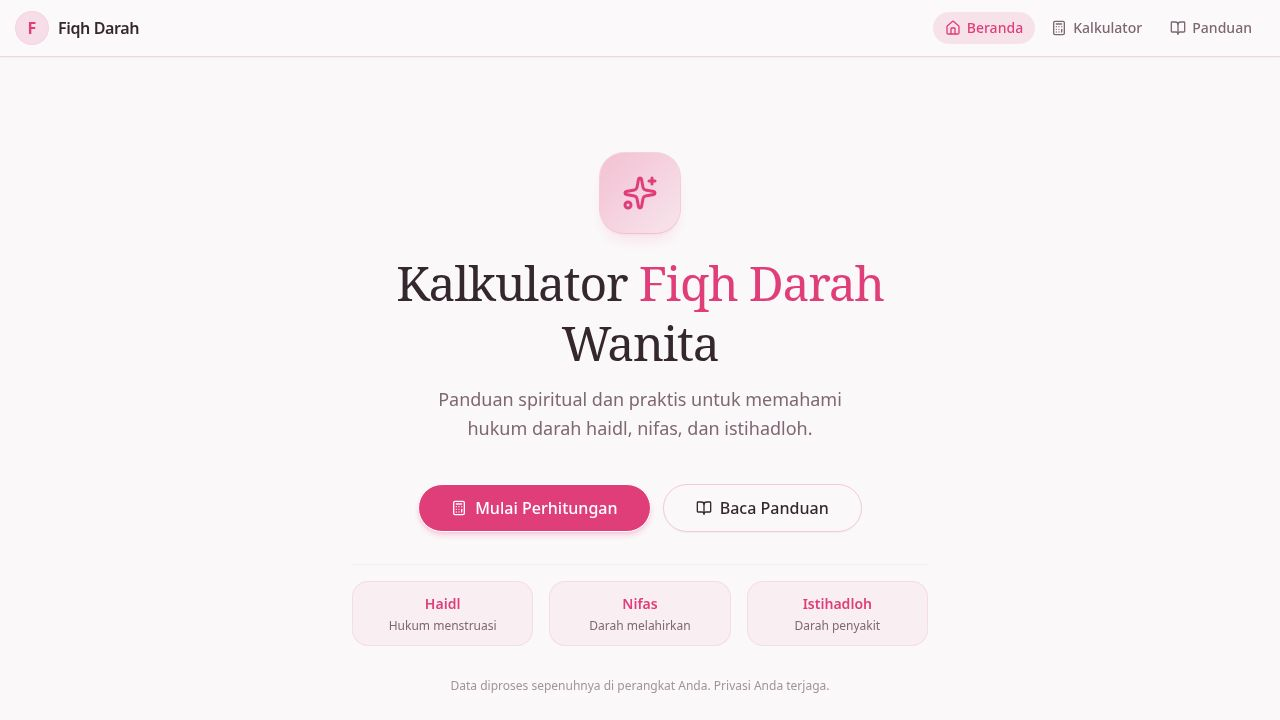
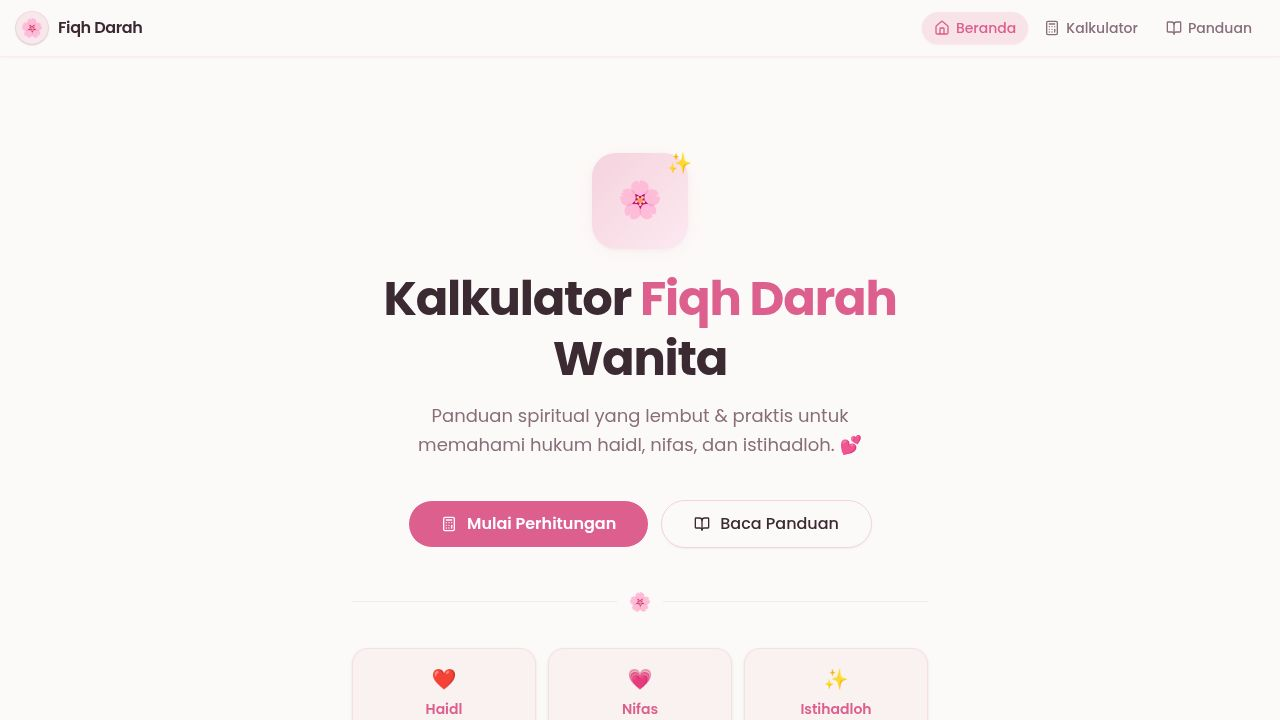
Clarify menstrual cycle calculations and improve explanation text
Adjusted logic in `fiqhEngine.ts` to correctly differentiate between menstruation and istihadloh, refining the `buatLiniMasaHarian` function to accurately reflect menstrual rules, and updating explanatory texts for clarity.

Replit-Commit-Author: Agent
Replit-Commit-Session-Id: 7fc0ec94-3ffa-4aa1-9a6b-895722b9b6fd
Replit-Commit-Checkpoint-Type: full_checkpoint
Replit-Commit-Event-Id: fd1e60aa-e792-46ee-9ad3-f5317915968c
Replit-Commit-Screenshot-Url: https://storage.googleapis.com/screenshot-production-us-central1/3e0d45d8-30c7-44c5-8b15-86df5e108609/7fc0ec94-3ffa-4aa1-9a6b-895722b9b6fd/iyR3cQ2
Replit-Helium-Checkpoint-Created: true

diff --git a/artifacts/fiqh-darah/src/lib/fiqhEngine.ts b/artifacts/fiqh-darah/src/lib/fiqhEngine.ts
@@ -229,7 +229,7 @@ function tentukanKategoriMushtadloh(
     if (isTamyiz) {
       return {
         kategori: "Mubtadi'ah Mumayyizah (Golongan 1)",
-        hukum: `${kuatLabel} darah kuat adalah HAIDL. Darah lemah dan masa berhenti yang berada di sela-sela darah kuat juga dihukumi HAIDL. Darah lemah yang keluar terus-menerus setelah darah kuat terakhir adalah ISTIHADLOH.`,
+        hukum: `${kuatLabel} darah kuat adalah HAIDL. ${lemahLabel} darah lemah adalah ISTIHADLOH.`,
         haidJamSebenarnya: kuatJam,
       };
     } else {
@@ -243,7 +243,7 @@ function tentukanKategoriMushtadloh(
     if (isTamyiz) {
       return {
         kategori: "Mu'tadah Mumayyizah (Golongan 3)",
-        hukum: `${kuatLabel} darah kuat adalah HAIDL. Darah lemah dan masa berhenti yang berada di sela-sela darah kuat juga dihukumi HAIDL. Darah lemah yang keluar terus-menerus setelah darah kuat terakhir adalah ISTIHADLOH.`,
+        hukum: `${kuatLabel} darah kuat adalah HAIDL. ${lemahLabel} darah lemah adalah ISTIHADLOH.`,
         haidJamSebenarnya: kuatJam,
       };
     } else {
@@ -390,17 +390,14 @@ function buatLiniMasaHarian(
   let hariKe = hariMulai;
   let cumJam = 0;
 
-  // ── Pre-compute: untuk tamyiz, tandai bersih dan lemah "di antara dua darah kuat" ──
-  // Hukum Mumayyizah (G1 & G3): yang dihukumi haid/nifas adalah darah kuat BESERTA darah
-  // lemah dan masa berhenti yang berada di sela-sela darah kuat. Darah lemah yang keluar
-  // terus-menerus setelah darah kuat terakhir = istihadloh.
+  // ── Pre-compute: untuk tamyiz, tandai bersih "di antara dua darah kuat" (An-Naqo'/Jam'u) ──
+  // Hukum Mumayyizah (G1 & G3): darah kuat = haid, darah lemah = istihadloh.
+  // Masa berhenti (bersih) yang diapit dua darah kuat juga dihukumi haid (Kaidah An-Naqo').
   const bersihAntaraKuat: boolean[] = new Array(items.length).fill(false);
-  const lemahAntaraKuat: boolean[] = new Array(items.length).fill(false);
   if (isTamyiz && tipeAnalisis === "istihadloh") {
     for (let i = 0; i < items.length; i++) {
-      const isLemah = items[i].tipe === "darah" && skorWarnaSifat(items[i] as FaseDarahItem) < kuatSkor;
       const isBersih = items[i].tipe === "bersih";
-      if (!isLemah && !isBersih) continue;
+      if (!isBersih) continue;
 
       let prevKuat = false;
       for (let j = i - 1; j >= 0; j--) {
@@ -417,7 +414,6 @@ function buatLiniMasaHarian(
         }
       }
       if (isBersih) bersihAntaraKuat[i] = prevKuat && nextKuat;
-      if (isLemah) lemahAntaraKuat[i] = prevKuat && nextKuat;
     }
   }
 
@@ -448,18 +444,13 @@ function buatLiniMasaHarian(
           keterangan = `Darah ${faseDarah.warna} — Haid`;
         } else if (tipeAnalisis === "istihadloh") {
           if (isTamyiz) {
-            // Golongan 1 & 3 (Mumayyizah): darah kuat = Haid, darah lemah antara dua kuat = Haid,
-            // darah lemah setelah kuat terakhir = Istihadloh.
+            // Golongan 1 & 3 (Mumayyizah): darah kuat = Haid, darah lemah = Istihadloh.
             if (skorFase >= kuatSkor) {
               hukum = "haid";
               keterangan = `Darah kuat (${faseDarah.warna}) — Haid`;
-            } else if (lemahAntaraKuat[faseIdx]) {
-              hukum = "haid";
-              wajibQodloPuasa = true;
-              keterangan = `Darah lemah (${faseDarah.warna}) — Haid (berada di sela-sela dua darah kuat, dihukumi Haid sesuai kaidah Mumayyizah). Sholat wajib dikerjakan secara dzahir saat darah tidak terlihat, namun TIDAK SAH — TIDAK PERLU DIQODLO karena kewajiban sholat gugur selama haid. Puasa TIDAK SAH dan WAJIB DIQODLO.`;
             } else {
               hukum = "istihadloh";
-              keterangan = `Darah lemah (${faseDarah.warna}) — Istihadloh (setelah darah kuat terakhir)`;
+              keterangan = `Darah lemah (${faseDarah.warna}) — Istihadloh`;
             }
           } else if (ingatKebiasaan === "lupa_semua") {
             // Golongan 5 (Mutahayyiroh Mutlaqoh): haid hanya 24 jam pertama, setelahnya Ihtiyath
@@ -769,8 +760,8 @@ function analyzeSingleSiklus(
       ? "Mubtadi'ah Mumayyizah — Kaidah Kuat-Lemah-Kuat"
       : "Mu'tadah Mumayyizah — Kaidah Kuat-Lemah-Kuat";
     hukum = includesLemah
-      ? `${formatDurasi(haidJamCatatan)} pertama (darah kuat pertama + darah lemah setelahnya, total ≤ 15 hari) dihukumi HAIDL. Darah kuat kedua dan selebihnya dihukumi ISTIHADLOH.`
-      : `${formatDurasi(jam1Kuat)} darah kuat pertama dihukumi HAIDL. Darah lemah dan darah kuat kedua setelahnya dihukumi ISTIHADLOH (darah kuat pertama + darah lemah melebihi 15 hari sehingga darah lemah tidak ikut haidl).`;
+      ? `${formatDurasi(haidJamCatatan)} pertama dihukumi HAIDL — mencakup darah kuat pertama (${formatDurasi(jam1Kuat)}) dan darah lemah setelahnya (${formatDurasi(haidJamCatatan - jam1Kuat)}). Keduanya dijumlah tidak melebihi 15 hari, sehingga sama-sama dihukumi haid. Darah kuat kedua dan selebihnya dihukumi ISTIHADLOH.`
+      : `${formatDurasi(jam1Kuat)} darah kuat pertama dihukumi HAIDL. Darah lemah dan darah kuat kedua setelahnya dihukumi ISTIHADLOH — karena darah kuat pertama ditambah darah lemah melebihi 15 hari, maka darah lemah tidak ikut dihukumi haid.`;
   }
 
   let bersihDalamHaidJam = 0;
@@ -781,10 +772,9 @@ function analyzeSingleSiklus(
     haidJamCatatan !== null ? "ingat_semua" : ingatKebiasaan;
 
   if (isTamyiz) {
-    // Bersih dan lemah yang dihitung sebagai "dalam haid" hanya jika diapit dua darah kuat.
-    // Hukum Mumayyizah (G1 & G3): darah kuat + darah lemah antara kuat + bersih antara kuat = haid.
+    // Mumayyizah (G1 & G3): darah kuat = haid, darah lemah = istihadloh.
+    // Bersih yang diapit dua darah kuat (An-Naqo'/Jam'u) juga dihukumi haid.
     const kuatSkorRef = darahFases.length > 0 ? skorWarnaSifat(darahFases[0]) : 0;
-    let lemahAntaraKuatJam = 0;
     for (let i = 0; i < items.length; i++) {
       let prevKuat = false;
       for (let j = i - 1; j >= 0; j--) {
@@ -803,17 +793,6 @@ function analyzeSingleSiklus(
       if (items[i].tipe === "bersih" && prevKuat && nextKuat) {
         bersihDalamHaidJam += jamKeFaseItem(items[i]);
       }
-      if (
-        items[i].tipe === "darah" &&
-        skorWarnaSifat(items[i] as FaseDarahItem) < kuatSkorRef &&
-        prevKuat && nextKuat
-      ) {
-        lemahAntaraKuatJam += jamKeFaseItem(items[i]);
-      }
-    }
-    // Update haidJamSebenarnya: haid sesungguhnya = kuat + lemah-antara-kuat + bersih-antara-kuat
-    if (haidJamSebenarnya !== null && haidJamSebenarnya !== undefined) {
-      haidJamSebenarnya = haidJamSebenarnya + lemahAntaraKuatJam + bersihDalamHaidJam;
     }
   } else if (ingatKebiasaanEfektif !== "lupa_semua") {
     if (haidJamSebenarnya !== null && haidJamSebenarnya !== undefined && haidJamSebenarnya > 0) {
@@ -1060,11 +1039,7 @@ function buatLiniMasaHarianNifas(
             // dihukumi Nifas meskipun darah berikutnya adalah darah lemah.
             if (nifasJamSebenarnya !== null && jamMulaiSeg < nifasJamSebenarnya) {
               hukum = "nifas";
-              if (skorFase >= kuatSkor) {
-                keterangan = `Darah kuat (${faseDarah.warna}) — Nifas`;
-              } else {
-                keterangan = `Darah lemah (${faseDarah.warna}) — Nifas (berada di sela-sela dua darah kuat, dihukumi Nifas sesuai kaidah Mumayyizah)`;
-              }
+              keterangan = `Darah kuat (${faseDarah.warna}) — Nifas`;
             } else {
               hukum = "istihadloh";
               keterangan = `Darah (${faseDarah.warna}) — Istihadloh (di luar batas nifas Mumayyizah)`;
@@ -1318,25 +1293,12 @@ function analyzeSiklusNifas(
         .reduce((s, f) => s + jamKeFaseItem(f), 0);
       if (kuatJam >= 24 && kuatJam <= NIFAS_MAX_JAM) {
         isTamyiz = true;
-        // Hitung batas nifas mumayyizah menggunakan dua metode, ambil yang terbesar:
-        // (A) Kaidah Sahbi: semua fase hingga sebelum darah lemah pertama (kuat + bersih sesudahnya).
-        // (B) Kaidah Taqothu' Mumayyizah: semua fase dari awal s/d akhir darah kuat terakhir
-        //     (mencakup darah lemah dan bersih yang berada di sela-sela darah kuat).
-        let kaidahSahbiJam = 0;
+        // Kaidah Sahbi: nifas = semua fase dari awal hingga sebelum darah lemah pertama
+        // (darah kuat + masa bersih yang mengiringinya sebelum darah lemah keluar).
         for (const fase of nifasItems) {
           if (fase.tipe === "darah" && skorWarnaSifat(fase as FaseDarahItem) < kuatSkor) break;
-          kaidahSahbiJam += jamKeFaseItem(fase);
+          totalNifasMumayyizahJam += jamKeFaseItem(fase);
         }
-        let lastKuatEndJam = 0;
-        let cumNifas = 0;
-        for (const fase of nifasItems) {
-          const j = jamKeFaseItem(fase);
-          cumNifas += j;
-          if (fase.tipe === "darah" && skorWarnaSifat(fase as FaseDarahItem) >= kuatSkor) {
-            lastKuatEndJam = cumNifas;
-          }
-        }
-        totalNifasMumayyizahJam = Math.max(kaidahSahbiJam, lastKuatEndJam);
       }
     }
   }
@@ -1645,7 +1607,7 @@ export function jalankanMesinFiqh(input: InputUser): HasilAnalisis {
     }
 
     return {
-      kesimpulan: `Darah Istihadloh (total ${formatDurasi(s.totalJamSiklus)} — melebihi batas maksimal haid 15 hari)`,
+      kesimpulan: `Darah Istihadloh — total ${formatDurasi(s.totalJamSiklus)} melampaui batas haid 15 hari${s.haidJamSebenarnya ? `, haid sesungguhnya ${formatDurasi(s.haidJamSebenarnya)}` : ""}`,
       kategori: kategoriStr,
       hukumHaidl: "",
       hukumIstihadloh: hukumIstihadlohFinal,